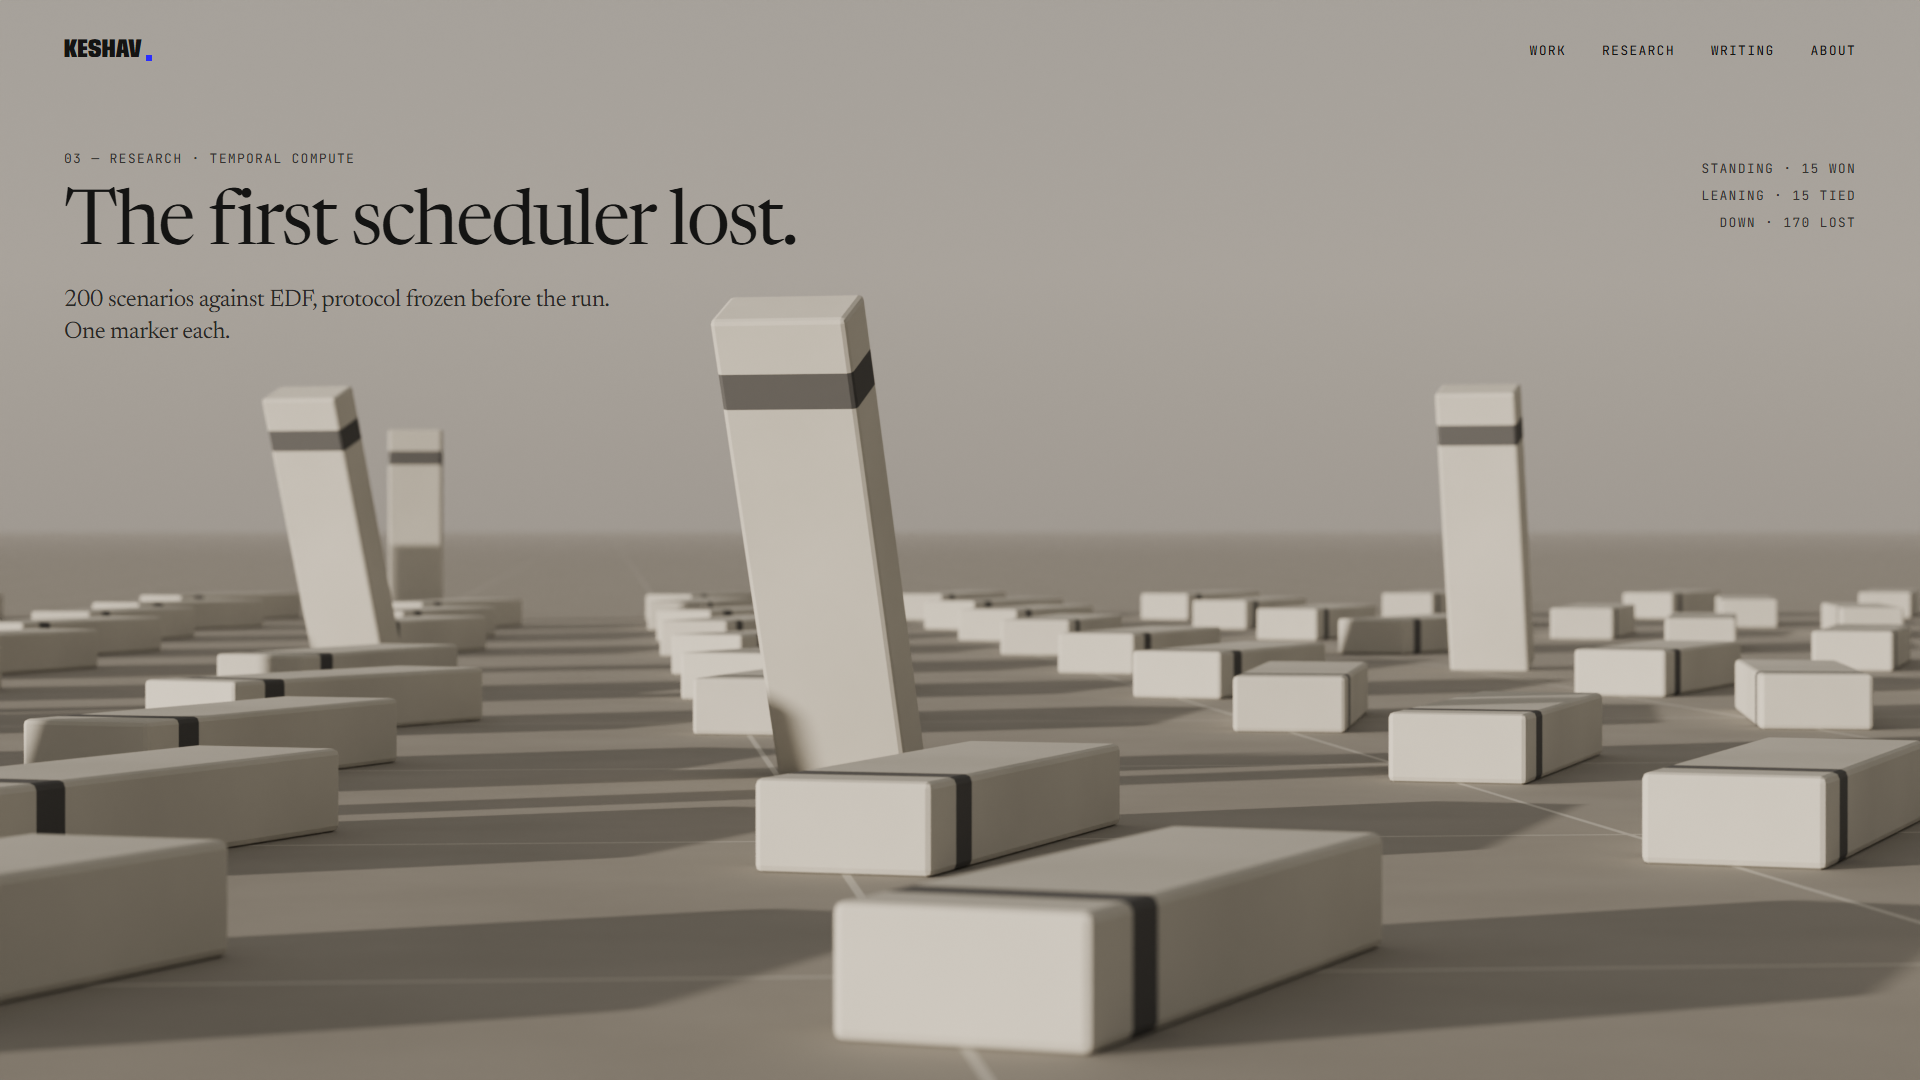
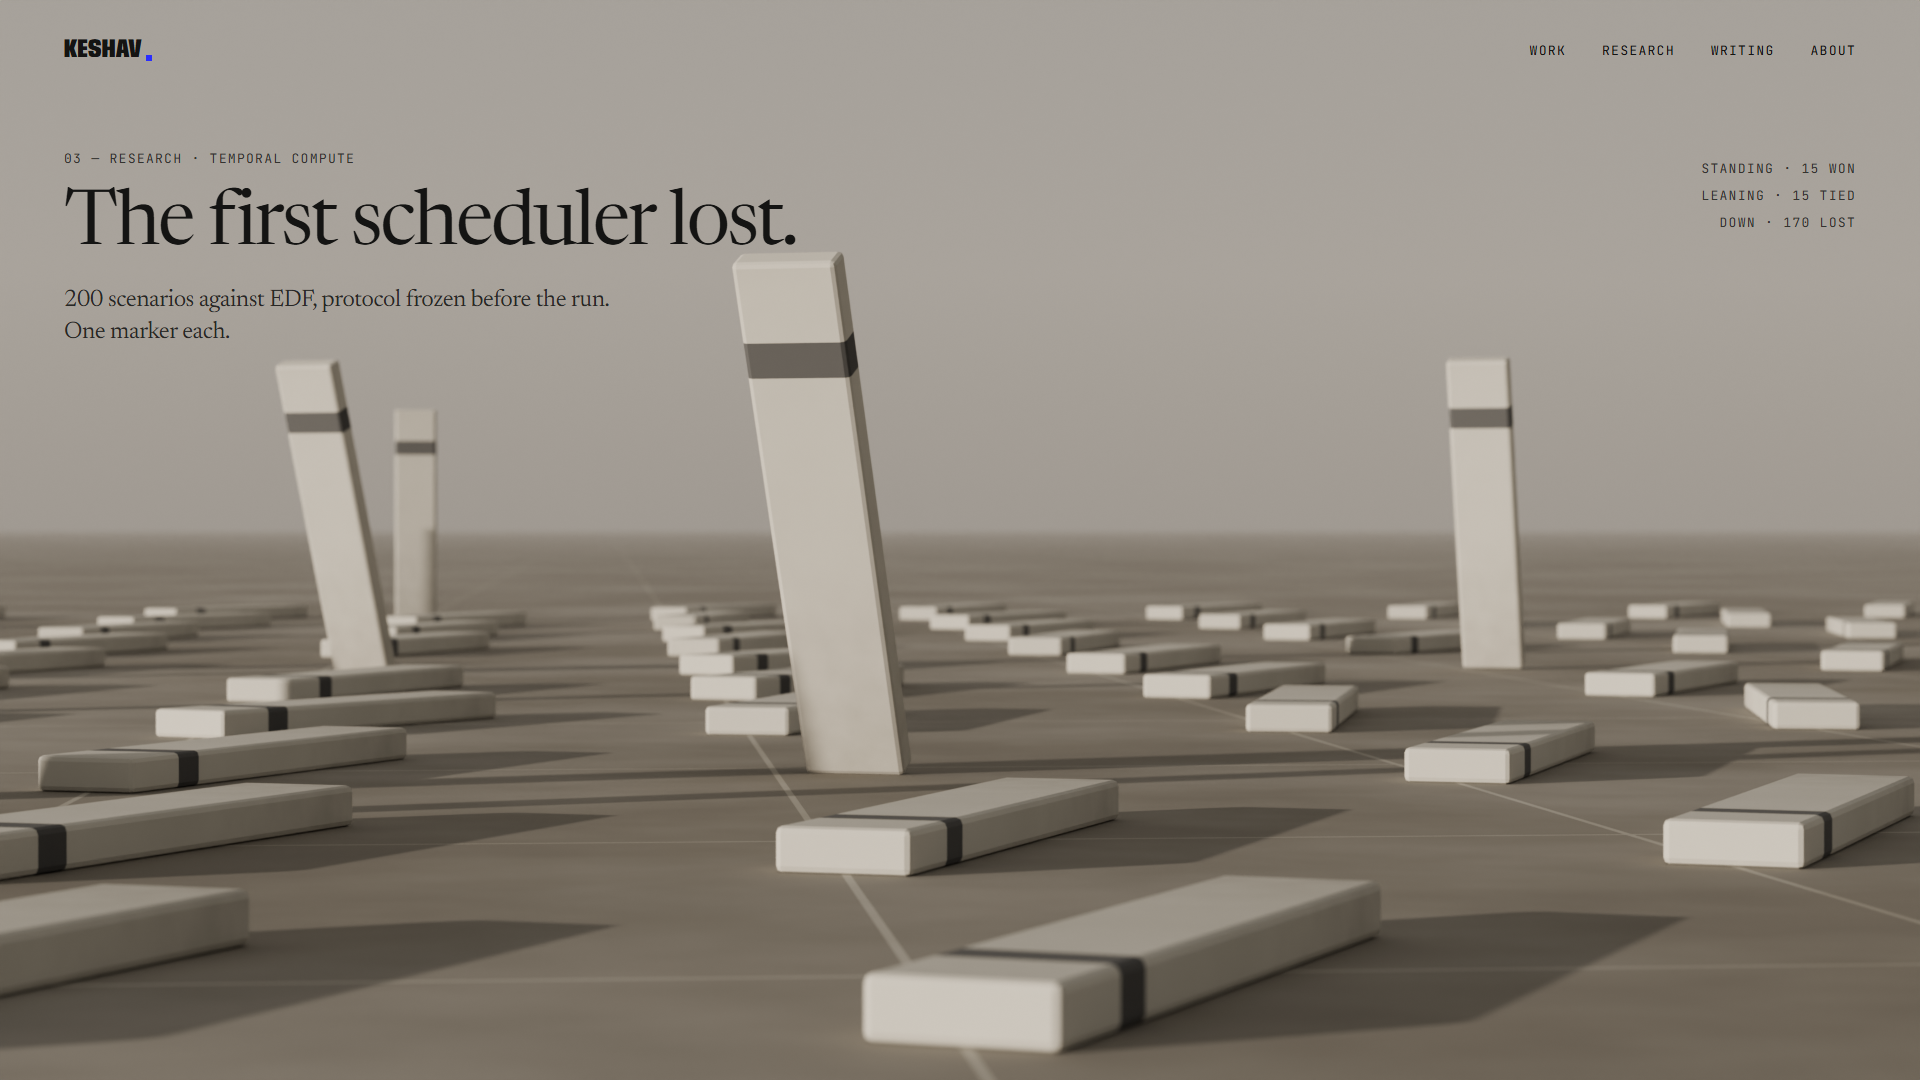
art: thinner weathered fins for the Test Site; JPEG previews of the frames

diff --git a/art/field.py b/art/field.py
@@ -56,7 +56,21 @@ def apron():
     nt.links.new(mul.outputs[0], mix.inputs["Factor"])
     nt.links.new(base, mix.inputs["A"])
     mix.inputs["B"].default_value = (0.72, 0.7, 0.64, 1)
-    nt.links.new(mix.outputs["Result"], bsdf.inputs["Base Color"])
+    stain = c.node(nt, "ShaderNodeTexNoise", Scale=0.35, Detail=5.0, Roughness=0.62)
+    nt.links.new(tc.outputs["Object"], stain.inputs["Vector"])
+    sr = nt.nodes.new("ShaderNodeValToRGB")
+    sr.color_ramp.elements[0].position = 0.42
+    sr.color_ramp.elements[0].color = (0.62, 0.6, 0.56, 1)
+    sr.color_ramp.elements[1].position = 0.68
+    sr.color_ramp.elements[1].color = (1, 1, 1, 1)
+    nt.links.new(stain.outputs["Fac"], sr.inputs["Fac"])
+    st = nt.nodes.new("ShaderNodeMix")
+    st.data_type = "RGBA"
+    st.blend_type = "MULTIPLY"
+    st.inputs["Factor"].default_value = 1.0
+    nt.links.new(mix.outputs["Result"], st.inputs["A"])
+    nt.links.new(sr.outputs["Color"], st.inputs["B"])
+    nt.links.new(st.outputs["Result"], bsdf.inputs["Base Color"])
     return m
 
 
@@ -86,7 +100,24 @@ def fin_material():
     nt.links.new(band.outputs[0], mix.inputs["Factor"])
     nt.links.new(base, mix.inputs["A"])
     mix.inputs["B"].default_value = (0.1, 0.1, 0.1, 1)
-    nt.links.new(mix.outputs["Result"], bsdf.inputs["Base Color"])
+    grime_n = c.node(nt, "ShaderNodeTexNoise", Scale=14.0, Detail=10.0)
+    nt.links.new(tc.outputs["Object"], grime_n.inputs["Vector"])
+    zr = nt.nodes.new("ShaderNodeMapRange")
+    zr.inputs["From Min"].default_value = -0.5
+    zr.inputs["From Max"].default_value = 0.1
+    zr.inputs["To Min"].default_value = 0.55
+    zr.inputs["To Max"].default_value = 0.0
+    nt.links.new(sep.outputs["Z"], zr.inputs["Value"])
+    gm = c.node(nt, "ShaderNodeMath")
+    gm.operation = "MULTIPLY"
+    nt.links.new(zr.outputs["Result"], gm.inputs[0])
+    nt.links.new(grime_n.outputs["Fac"], gm.inputs[1])
+    dirt = nt.nodes.new("ShaderNodeMix")
+    dirt.data_type = "RGBA"
+    nt.links.new(gm.outputs[0], dirt.inputs["Factor"])
+    nt.links.new(mix.outputs["Result"], dirt.inputs["A"])
+    dirt.inputs["B"].default_value = (0.22, 0.2, 0.17, 1)
+    nt.links.new(dirt.outputs["Result"], bsdf.inputs["Base Color"])
     return m
 
 
@@ -94,7 +125,7 @@ bpy.ops.mesh.primitive_plane_add(size=500)
 ground = bpy.context.active_object
 ground.data.materials.append(apron())
 
-FW, FD, FH = 0.26, 0.13, 0.95
+FW, FD, FH = 0.2, 0.065, 1.05
 bpy.ops.mesh.primitive_cube_add(size=1)
 proto = bpy.context.active_object
 proto.scale = (FW, FD, FH)

diff --git a/art/vault.py b/art/vault.py
@@ -91,7 +91,7 @@ end.scale = (AISLE + 2, ceil_z, 1)
 end.rotation_euler = (math.radians(90), 0, 0)
 end.data.materials.append(c.flat("end", (1, 1, 1), emission=(0.8, 0.86, 0.95), strength=1.4))
 
-# The one row: a bay ~38 m in, left wall, third from the floor — pulled out and lit from inside.
+# The one row: a bay ~12 m in, left wall, fourth from the floor — pulled out and lit from inside.
 col, row = 14, 3
 y = col * CELL_W + CELL_W / 2
 z = row * CELL_H + CELL_H / 2
